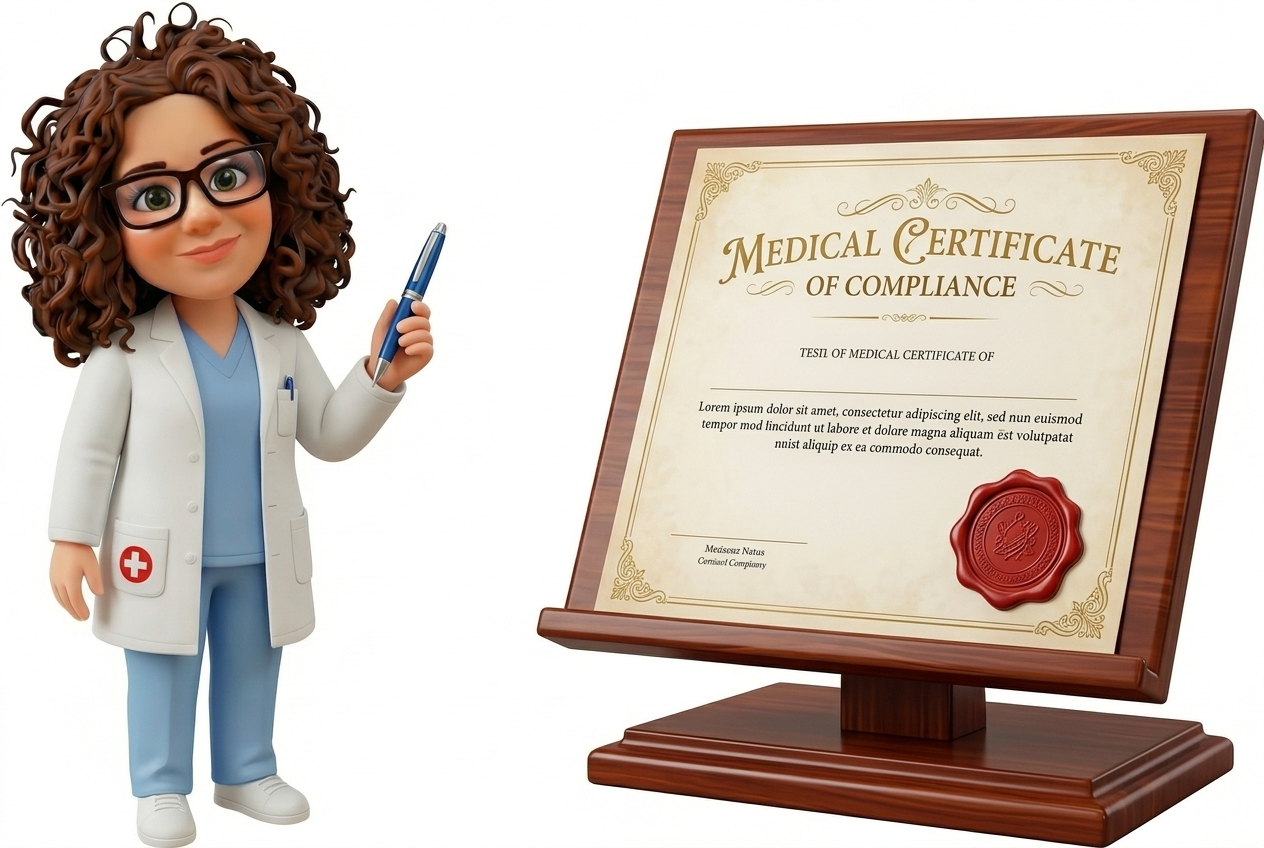
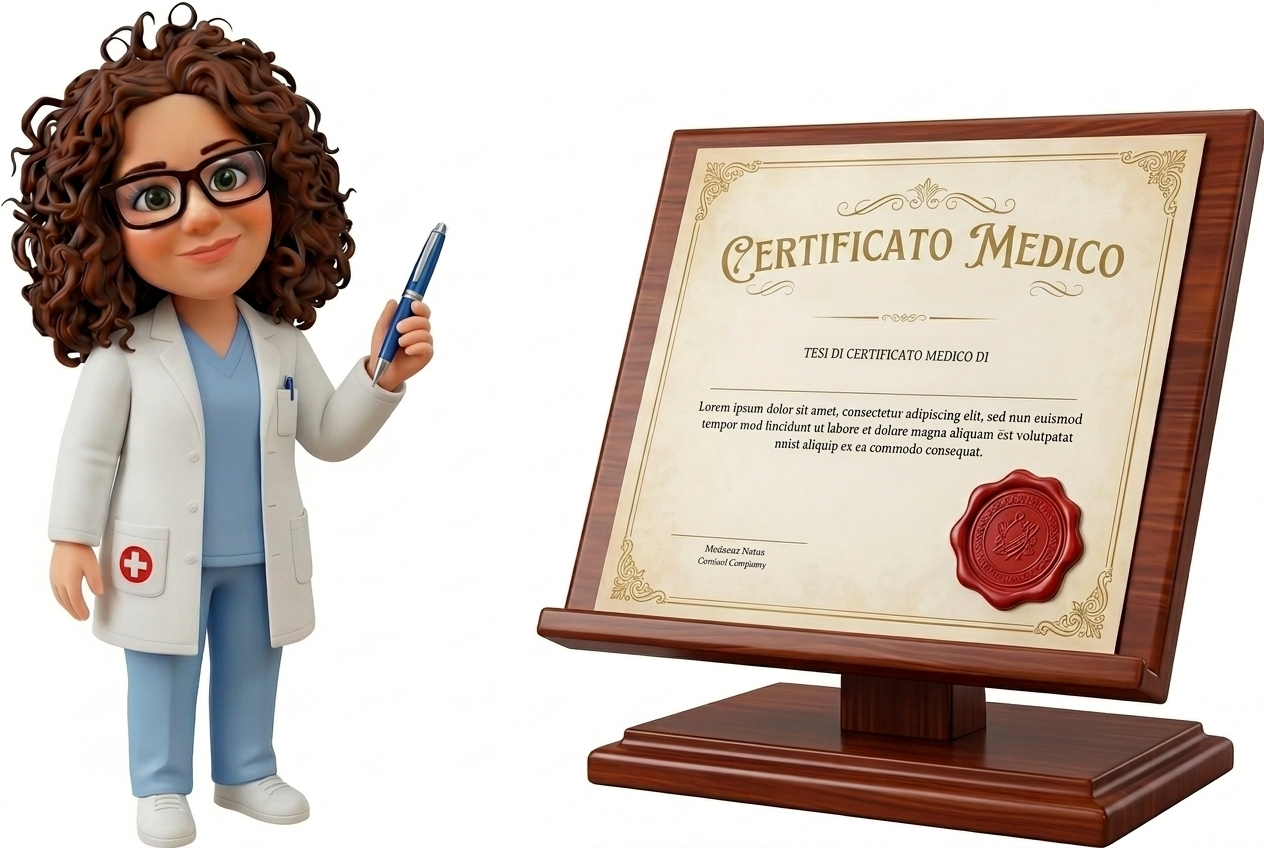
feat(tiles): localize certificates tile image to Italian

diff --git a/app/src/app/[locale]/(app)/pazienti/page.tsx b/app/src/app/[locale]/(app)/pazienti/page.tsx
@@ -9,7 +9,7 @@ import { createPageMetadata, PAGE_TITLES } from "@/lib/page-metadata";
 
 export const metadata = createPageMetadata(PAGE_TITLES.pazienti);
 
-const TILE_IMAGE_VERSION = "1";
+const TILE_IMAGE_VERSION = "2";
 
 export default async function PazientiPage({
   searchParams,
